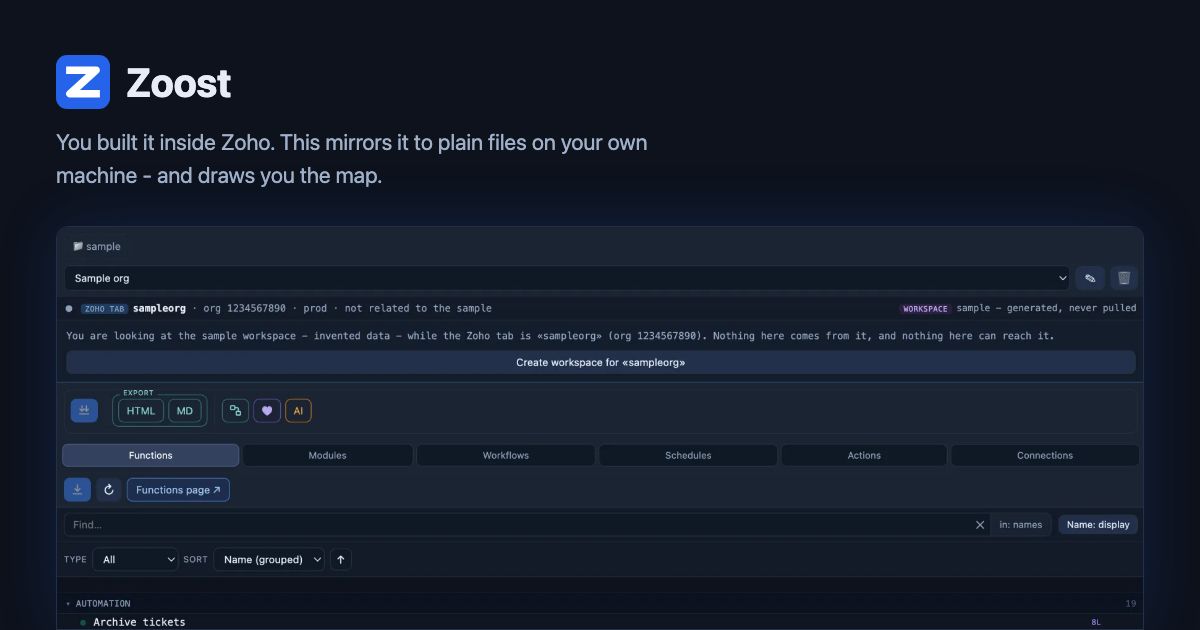
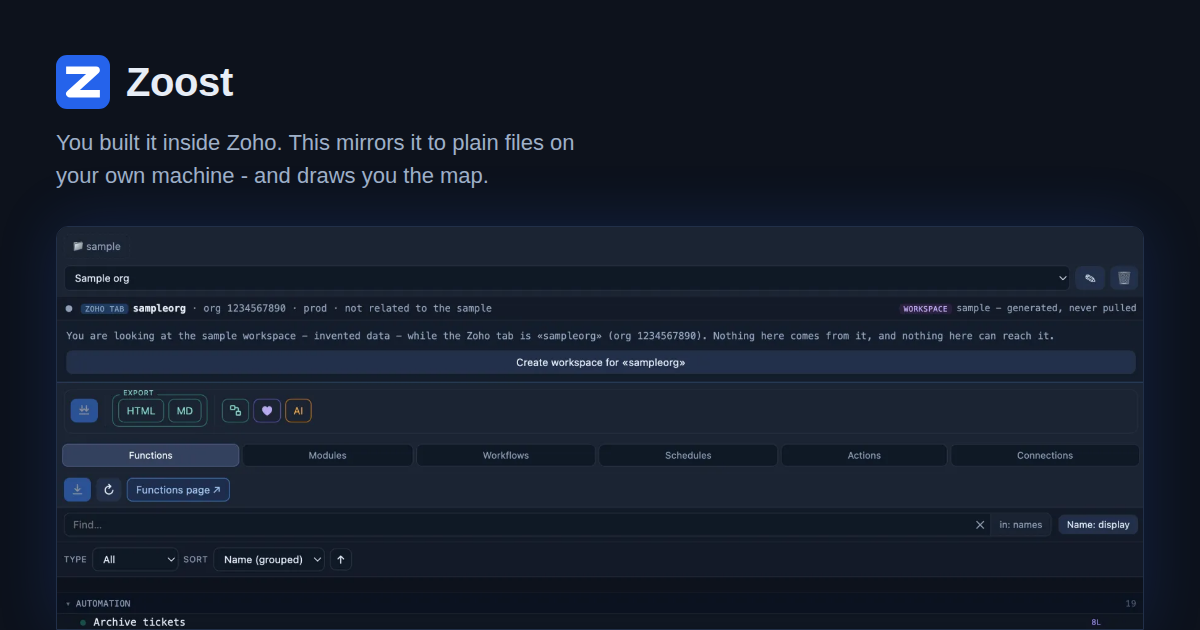
The card a link unfurls into was the one image no check could see
site/img/og.png had no row in imgstamp.json, was drawn on every run whatever
had moved, and appeared in none of imgcheck's six checks - by four independent
accidents rather than by decision, which is why removing any one of them would
have changed nothing. It is not one of the renderer's shots, it lives in a
<meta og:image> and not an <img>, every set in the checker is globbed as *.webp,
and nothing recorded what it was drawn from. Its bytes changed by 800 between a
macOS render and a WSL one and the only thing that said so was git status.

What it is a picture of is tools/ogcard.html plus the screenshot that template
embeds, read out of the template rather than written down beside it: point the
card at another shot and a hardcoded crm-preview.webp would go on watching a
file the card no longer contains. The digest decides whether to draw, the bytes
whether to replace, as with the WebPs.

It is also drawn between the loop and the stamping now. It embeds a screenshot
the same run may have redrawn, and every page carries the card's own bytes in
its og:image, so stamping first wrote last run's digest onto 21 pages - which
held together only because prepare.sh stamps again afterwards. Three consecutive
runs of siteimg.py alone now produce no diff.

Five cases in tools_test.py, each proven to go red on its own, and the card
kept here is the WSL render.

Changed region(s): [[0.0308, 0.2111, 0.555, 0.2413], [0.0308, 0.2714, 0.4008, 0.3016], [0.0925, 0.1206, 0.2158, 0.1508]]

diff --git a/site/it/docs-analytics.html b/site/it/docs-analytics.html
@@ -12,7 +12,7 @@
 <meta property="og:url" content="https://zoost.it/it/docs-analytics">
 <meta property="og:title" content="Come si usa Zoost Analytics">
 <meta property="og:description" content="Guida a Zoost Analytics: workspace, pull, la struttura di una tabella, le chiavi esterne, l'SQL come file, gli export e l'assistente.">
-<meta property="og:image" content="https://zoost.it/img/og.png?v=786bcdbd73">
+<meta property="og:image" content="https://zoost.it/img/og.png?v=c167470fba">
 <meta name="twitter:card" content="summary_large_image">
 <link rel="canonical" href="https://zoost.it/it/docs-analytics">
 <link rel="alternate" hreflang="en" href="https://zoost.it/docs-analytics">

diff --git a/site/it/ai.html b/site/it/ai.html
@@ -12,7 +12,7 @@
 <meta property="og:url" content="https://zoost.it/it/ai">
 <meta property="og:title" content="AI e Zoost - cosa aggiunge, e quando non serve">
 <meta property="og:description" content="Zoost funziona senza nessun modello. Cosa dà già a un assistente l'export Markdown, cosa aggiunge quello integrato, e quando non serve una API key.">
-<meta property="og:image" content="https://zoost.it/img/og.png?v=786bcdbd73">
+<meta property="og:image" content="https://zoost.it/img/og.png?v=c167470fba">
 <meta name="twitter:card" content="summary_large_image">
 <link rel="canonical" href="https://zoost.it/it/ai">
 <link rel="alternate" hreflang="en" href="https://zoost.it/ai">

diff --git a/site/ai.html b/site/ai.html
@@ -11,7 +11,7 @@
 <meta property="og:url" content="https://zoost.it/ai">
 <meta property="og:title" content="AI and Zoost - what it adds, and when it does not">
 <meta property="og:description" content="Zoost works with no model at all. What the Markdown export already gives an assistant, what the built-in one adds, and when it is not worth a key.">
-<meta property="og:image" content="https://zoost.it/img/og.png?v=786bcdbd73">
+<meta property="og:image" content="https://zoost.it/img/og.png?v=c167470fba">
 <meta name="twitter:card" content="summary_large_image">
 <link rel="canonical" href="https://zoost.it/ai">
 <link rel="alternate" hreflang="en" href="https://zoost.it/ai">

diff --git a/site/it/try.html b/site/it/try.html
@@ -12,7 +12,7 @@
 <meta property="og:url" content="https://zoost.it/it/try">
 <meta property="og:title" content="Prova Zoost su dati inventati - senza account Zoho">
 <meta property="og:description" content="Zoost scrive un workspace di dati inventati in una cartella tua, e ci funziona tutto. Nessun account Zoho, nessun permesso da concedere.">
-<meta property="og:image" content="https://zoost.it/img/og.png?v=786bcdbd73">
+<meta property="og:image" content="https://zoost.it/img/og.png?v=c167470fba">
 <meta name="twitter:card" content="summary_large_image">
 <link rel="canonical" href="https://zoost.it/it/try">
 <link rel="alternate" hreflang="en" href="https://zoost.it/try">

diff --git a/site/try.html b/site/try.html
@@ -11,7 +11,7 @@
 <meta property="og:url" content="https://zoost.it/try">
 <meta property="og:title" content="Try Zoost on invented data - no Zoho account needed">
 <meta property="og:description" content="Zoost writes a workspace of invented data into a folder you choose, and everything works on it. No Zoho account, no permission to grant.">
-<meta property="og:image" content="https://zoost.it/img/og.png?v=786bcdbd73">
+<meta property="og:image" content="https://zoost.it/img/og.png?v=c167470fba">
 <meta name="twitter:card" content="summary_large_image">
 <link rel="canonical" href="https://zoost.it/try">
 <link rel="alternate" hreflang="en" href="https://zoost.it/try">

diff --git a/site/docs-analytics.html b/site/docs-analytics.html
@@ -11,7 +11,7 @@
 <meta property="og:url" content="https://zoost.it/docs-analytics">
 <meta property="og:title" content="How to use Zoost Analytics">
 <meta property="og:description" content="Guide to Zoost Analytics: workspaces, pull, a table's structure, its foreign keys, the SQL as files, exports and the assistant.">
-<meta property="og:image" content="https://zoost.it/img/og.png?v=786bcdbd73">
+<meta property="og:image" content="https://zoost.it/img/og.png?v=c167470fba">
 <meta name="twitter:card" content="summary_large_image">
 <link rel="canonical" href="https://zoost.it/docs-analytics">
 <link rel="alternate" hreflang="en" href="https://zoost.it/docs-analytics">

diff --git a/site/it/nerd.html b/site/it/nerd.html
@@ -12,7 +12,7 @@
 <meta property="og:url" content="https://zoost.it/it/nerd">
 <meta property="og:title" content="La pagina nerd - come funziona davvero Zoost">
 <meta property="og:description" content="Su cosa si regge Zoost, cosa si rifiuta di fare, come viene costruita e firmata una release, e come controllarlo senza fidarti di me.">
-<meta property="og:image" content="https://zoost.it/img/og.png?v=786bcdbd73">
+<meta property="og:image" content="https://zoost.it/img/og.png?v=c167470fba">
 <meta name="twitter:card" content="summary_large_image">
 <link rel="canonical" href="https://zoost.it/it/nerd">
 <link rel="alternate" hreflang="en" href="https://zoost.it/nerd">

diff --git a/site/it/docs-crm.html b/site/it/docs-crm.html
@@ -12,7 +12,7 @@
 <meta property="og:url" content="https://zoost.it/it/docs-crm">
 <meta property="og:title" content="Come si usa Zoost CRM">
 <meta property="og:description" content="Guida a Zoost CRM: cartella di lavoro, pull, il grafo delle chiamate, il diagramma ER, il controllo di salute, gli export e l'assistente.">
-<meta property="og:image" content="https://zoost.it/img/og.png?v=786bcdbd73">
+<meta property="og:image" content="https://zoost.it/img/og.png?v=c167470fba">
 <meta name="twitter:card" content="summary_large_image">
 <link rel="canonical" href="https://zoost.it/it/docs-crm">
 <link rel="alternate" hreflang="en" href="https://zoost.it/docs-crm">

diff --git a/site/nerd.html b/site/nerd.html
@@ -11,7 +11,7 @@
 <meta property="og:url" content="https://zoost.it/nerd">
 <meta property="og:title" content="The nerd page - how Zoost actually works">
 <meta property="og:description" content="What Zoost stands on, what it refuses to do, how a release is built and signed, and how to check any of it without taking my word.">
-<meta property="og:image" content="https://zoost.it/img/og.png?v=786bcdbd73">
+<meta property="og:image" content="https://zoost.it/img/og.png?v=c167470fba">
 <meta name="twitter:card" content="summary_large_image">
 <link rel="canonical" href="https://zoost.it/nerd">
 <link rel="alternate" hreflang="en" href="https://zoost.it/nerd">

diff --git a/site/it/privacy.html b/site/it/privacy.html
@@ -12,7 +12,7 @@
 <meta property="og:url" content="https://zoost.it/it/privacy">
 <meta property="og:title" content="Privacy policy - Zoost">
 <meta property="og:description" content="Privacy policy delle estensioni Chrome Zoost. Nessun server, nessun account, nessuna telemetria: lo sviluppatore non riceve niente.">
-<meta property="og:image" content="https://zoost.it/img/og.png?v=786bcdbd73">
+<meta property="og:image" content="https://zoost.it/img/og.png?v=c167470fba">
 <meta name="twitter:card" content="summary_large_image">
 <link rel="canonical" href="https://zoost.it/it/privacy">
 <link rel="alternate" hreflang="en" href="https://zoost.it/privacy">

diff --git a/site/it/how-to.html b/site/it/how-to.html
@@ -12,7 +12,7 @@
 <meta property="og:url" content="https://zoost.it/it/how-to">
 <meta property="og:title" content="Come si usa Zoost - una guida per prodotto">
 <meta property="og:description" content="Una guida per prodotto: cartella di lavoro, pull, il risultato sotto Git, e poi leggere quello che hai costruito.">
-<meta property="og:image" content="https://zoost.it/img/og.png?v=786bcdbd73">
+<meta property="og:image" content="https://zoost.it/img/og.png?v=c167470fba">
 <meta name="twitter:card" content="summary_large_image">
 <link rel="canonical" href="https://zoost.it/it/how-to">
 <link rel="alternate" hreflang="en" href="https://zoost.it/how-to">

diff --git a/site/docs-crm.html b/site/docs-crm.html
@@ -11,7 +11,7 @@
 <meta property="og:url" content="https://zoost.it/docs-crm">
 <meta property="og:title" content="How to use Zoost CRM">
 <meta property="og:description" content="Guide to Zoost CRM: working folder, pull, the call graph, the ER diagram, the health audit, the exports and the assistant.">
-<meta property="og:image" content="https://zoost.it/img/og.png?v=786bcdbd73">
+<meta property="og:image" content="https://zoost.it/img/og.png?v=c167470fba">
 <meta name="twitter:card" content="summary_large_image">
 <link rel="canonical" href="https://zoost.it/docs-crm">
 <link rel="alternate" hreflang="en" href="https://zoost.it/docs-crm">
